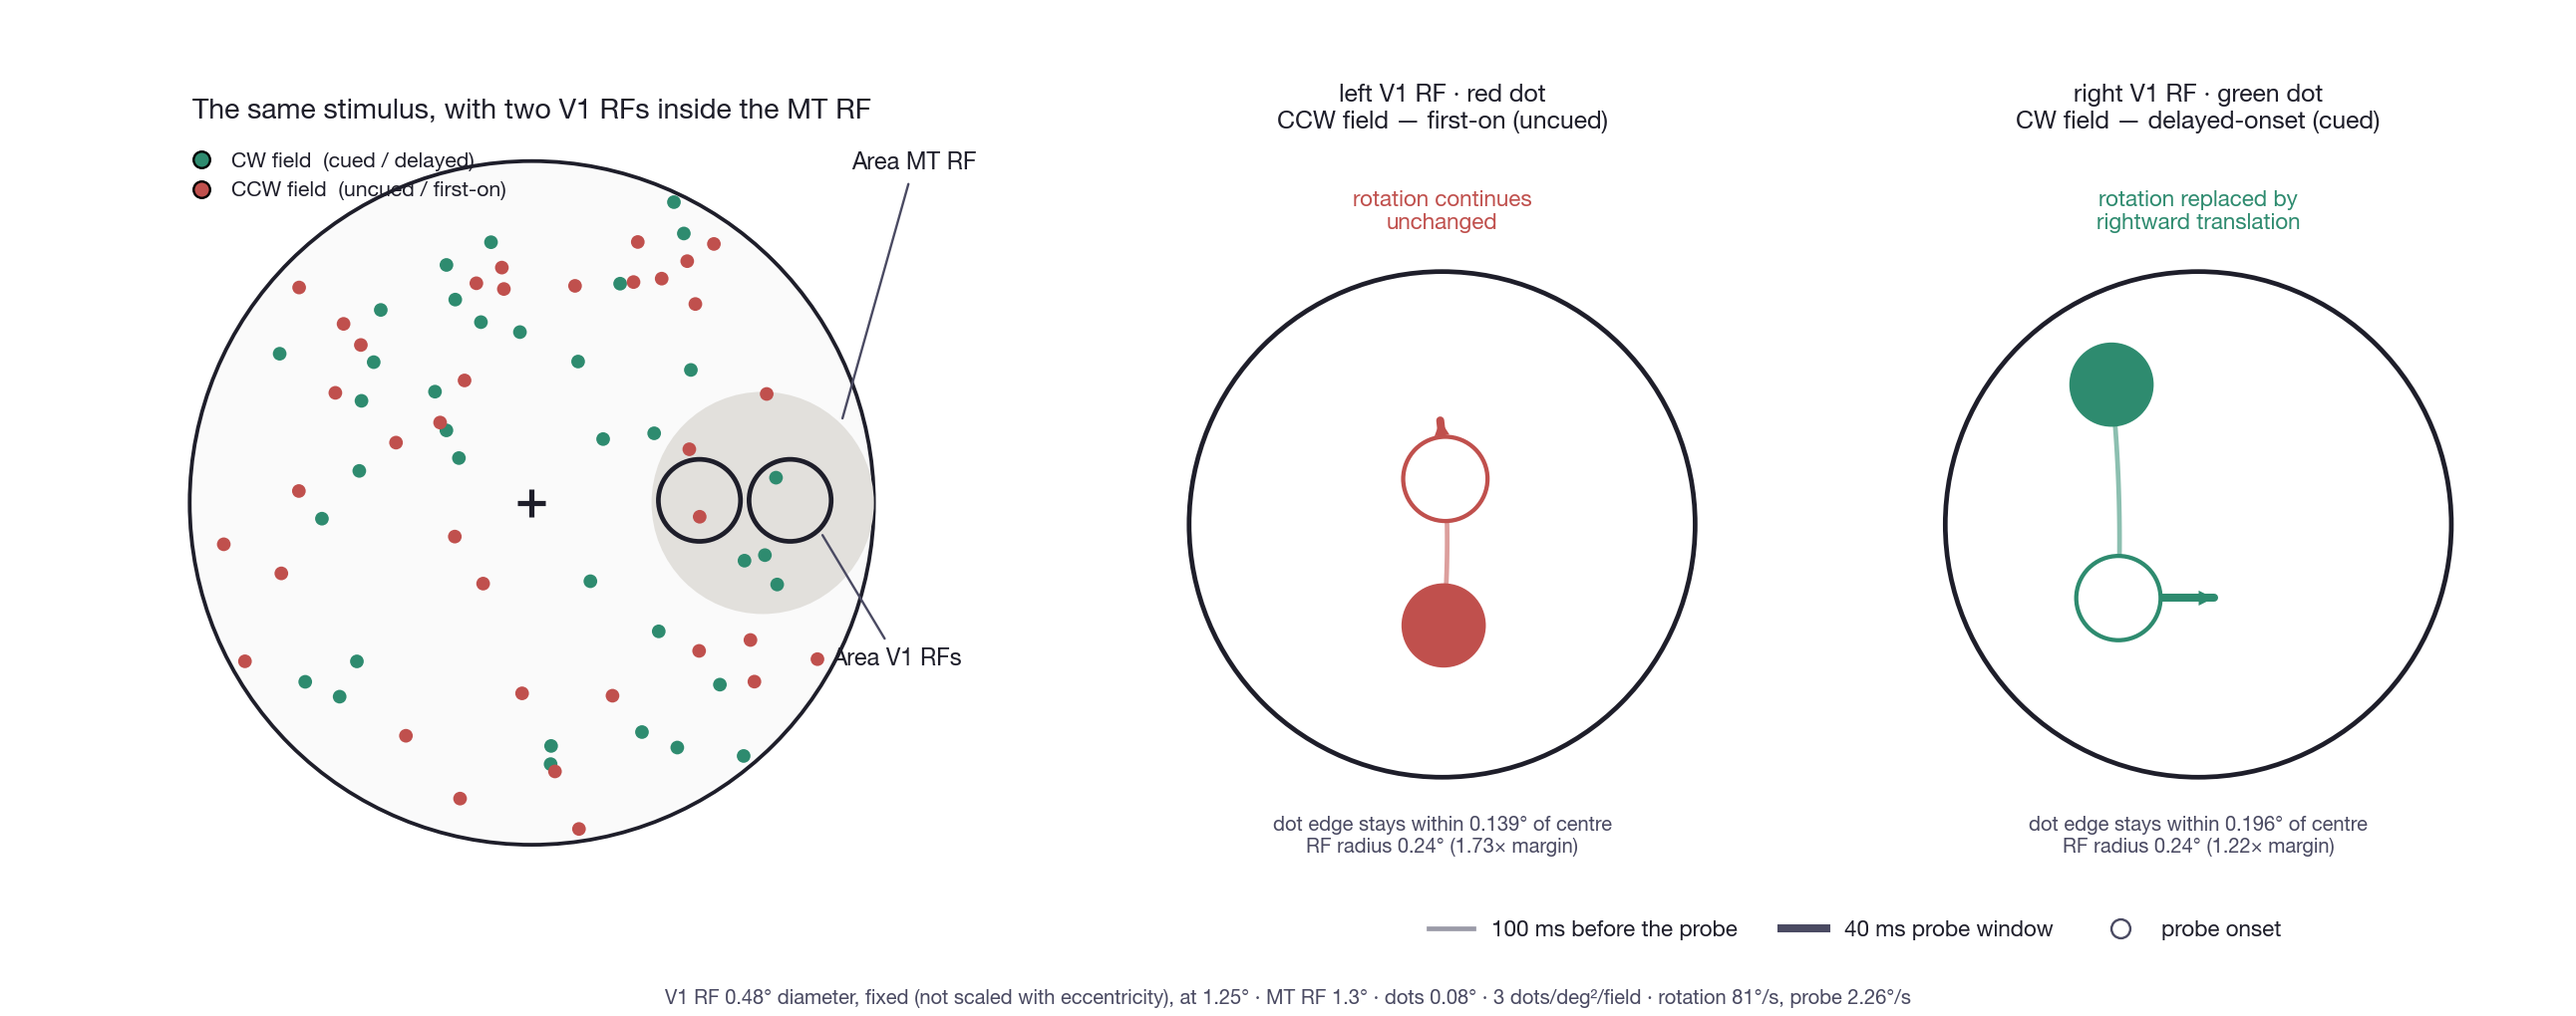
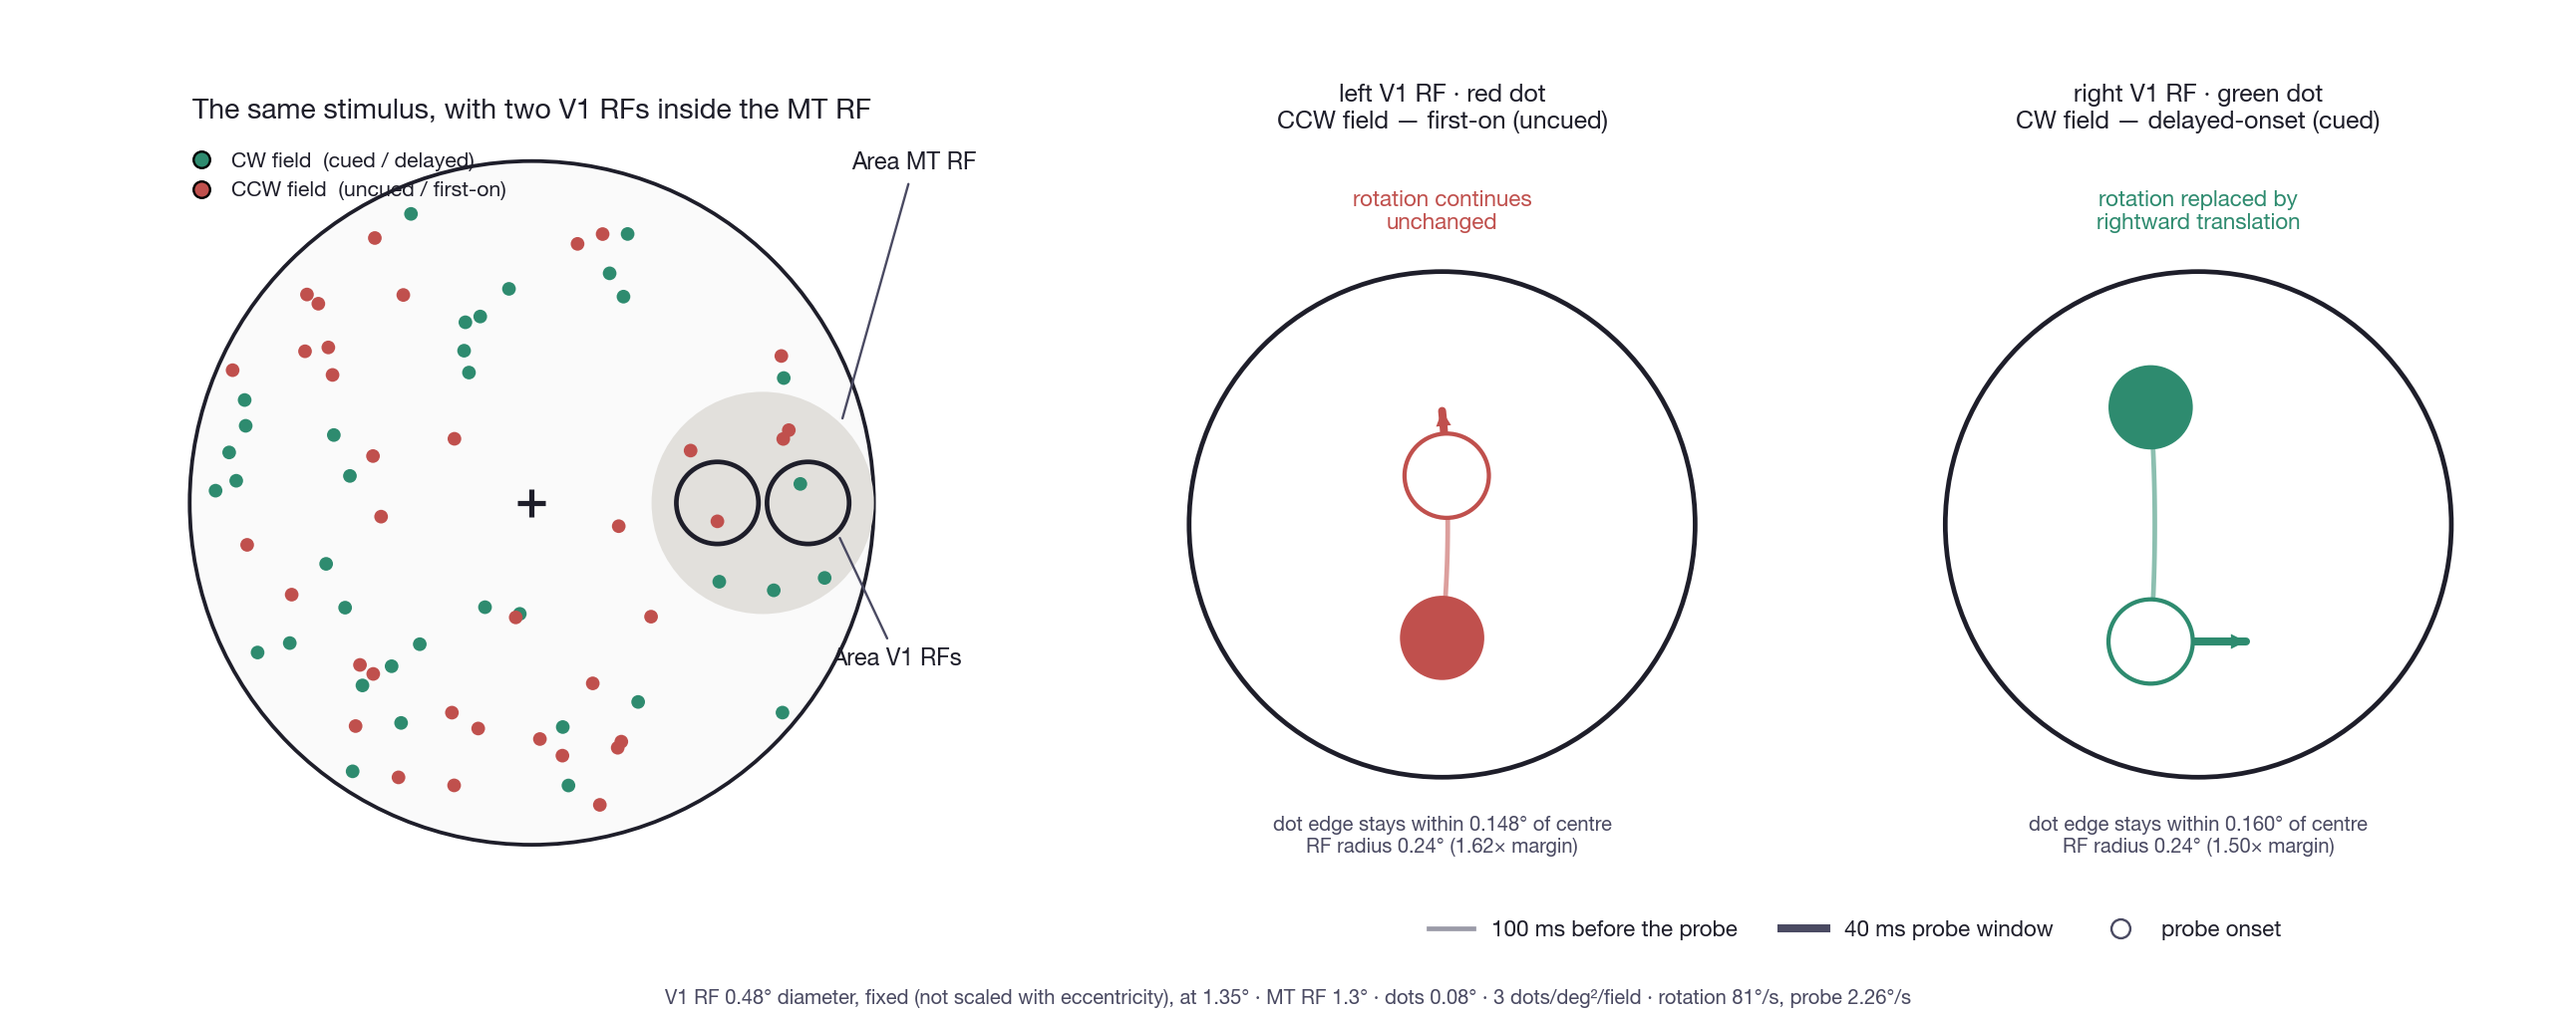
Construct the layout instead of searching for one
GS: "let's cheat a little" — place one dot in each V1 RF, positioned so its
trajectory lies inside, then equal numbers of red and green elsewhere in the MT
RF, then pepper the rest at the same density.

`build_layout` replaces `find_pure_pair` and its whole search apparatus. Per
field:

    1 selected   `_centred_start` solves for the start position whose WHOLE
                 trajectory — pre-probe rotation plus probe — sits centred in its
                 V1 RF. Iterated, because the arc is struck about fixation so
                 moving the start changes the path; nearly straight at this scale,
                 so it converges in a few passes.
    3 filler     inside the MT RF, clear of both V1 RFs, equal numbers of each
                 colour -> the MT blow-up comes out 4 green / 4 red
    32 pepper    the rest of the display

1 + 3 + 32 = 36 = DENSITY x annulus area, so the construction preserves density
EXACTLY rather than trading it for the arrangement. The V1 RFs are now placed
symmetrically about the MT RF centre, so they are inside it by construction.

Note the honesty is not weaker than the search version, only cheaper: every
non-selected dot is still verified to clear BOTH V1 RFs at all 21 sampled frames,
so each V1 RF holds one dot and only one for the whole window. And the selected
dots' paths are still drawn exactly where the dots are — `_centred_start` chooses
where the dot STARTS so its real path lands centred, rather than drawing the path
[…]

diff --git a/Agents/Modeling/sb2010/ps_stimulus_common.py b/Agents/Modeling/sb2010/ps_stimulus_common.py
@@ -18,22 +18,27 @@ blow-ups — the MT RF magnified in Figure 2, the two V1 RFs magnified in the V1
 figure. `dot_trajectory` / `draw_trajectory` live here but are called only by
 those panels.
 
-THE V1 PAIR IS FOUND, NOT PLACED
---------------------------------
-`find_pure_pair` moves both dot fields through the whole window and searches
-layout seed x pair-centre offset for two adjacent RF-sized regions where, on every
-sampled frame:
+THE LAYOUT IS CONSTRUCTED, NOT SEARCHED
+---------------------------------------
+`build_layout` places, per field:
 
-    left RF   exactly one dot of field A (red, uncued), the SAME dot throughout,
-              wholly inside; no dot of field B overlaps at all
-    right RF  the same for field B (green, cued)
+    1 selected dot   positioned by `_centred_start` so its WHOLE trajectory —
+                     pre-probe rotation plus probe — lies inside its V1 RF
+    3 filler dots    inside the MT RF but clear of both V1 RFs, equal numbers of
+                     each colour so the MT blow-up is about 50/50
+    32 pepper dots   over the rest of the display
 
-Identity persistence is the part that matters: "one dot per frame" alone would
-allow one dot leaving as another arrives. Offsets are drawn from a disc of radius
-`_PLAY` about `MT_C`, so both V1 RFs sitting inside the MT RF is guaranteed by the
-search space rather than arranged by eye. Nothing is deleted from the display.
+1 + 3 + 32 = 36 = DENSITY x annulus area, so the construction preserves density
+exactly rather than trading it for the arrangement. Every non-selected dot is
+verified to clear both V1 RFs at all sampled frames, so each V1 RF really does
+hold one dot and only one for the whole window.
 
-Run either figure script; this module does the search on import.
+Earlier versions searched thousands of random layouts for one that happened to
+qualify. That worked, but left dot counts in the MT RF, their colour balance and
+how well centred the paths were all hostage to whichever seed came up. Building
+it directly fixes all of them at once.
+
+Run either figure script; this module builds the layout on import.
 """
 
 import numpy as np
@@ -85,7 +90,7 @@ _SEP         = RF_DIAM_DEG + RF_GAP_DEG
 # row: it swallows the fovea, where local motion is nowhere near vertical, and
 # where the newer experiments — and S&B — exclude dots anyway. 0.65 keeps the
 # inner edge at 0.70 deg, clear of the 0.47 deg exclusion zone, and still leaves
-# room for the V1 pair to move (_PLAY below).
+# the two V1 RFs sitting inside it with clearance to spare.
 MT_R_DEG     = 0.65
 MT_ECC_DEG   = APERTURE_DEG - MT_R_DEG
 MT_C         = (MT_ECC_DEG, 0.0)
@@ -97,29 +102,8 @@ PRE_MS       = 100.0                # rotation shown before the probe; hcps_twop
 TRANS_MS     = 40.0                 # parameters.T_TRANS (3 frames @ 75 Hz)
 TRANSLATING_FIELD = "cued"          # "cued" (green) or "uncued" (red)
 
-# ── the search ──
-SEARCH_SEEDS  = range(1, 2500)
+# ── sampling of the window, used when checking dots against the V1 RFs ──
 SEARCH_FRAMES = 21
-SEARCH_STEP   = 0.04
-_PLAY         = MT_R_DEG - _SEP / 2 - RF_R_DEG   # both V1 RFs stay inside the MT RF
-GOOD_ENOUGH   = 1.40   # never reached in practice: search all seeds, take best
-MIN_ARC_DOTS  = 2.0                 # the pre-probe rotation arc must be at least
-                                    # this many dot-widths long, or the blow-up
-                                    # shows a dot with no visible path. Tangential
-                                    # speed goes as eccentricity, so this is a floor
-                                    # on how far out the pair may sit:
-                                    #   0.85 deg -> 1.5 dot-widths (too short)
-                                    #   1.20 deg -> 2.1            (legible)
-MT_BALANCE    = 1                   # max |n_green - n_red| inside the MT RF (GS:
-                                    # roughly equal numbers of each). Exact equality
-                                    # (0) is over-constrained once combined with the
-                                    # whole-dot purity test and the arc-length floor
-                                    # — no layout in 500 seeds satisfied all four at
-                                    # the larger RF. At 1 the chosen layout comes out
-                                    # 4 green / 3 red of 7.
-MT_MIN_DOTS   = 7                   # the SAME layout feeds Figure 2's MT-RF blow-up,
-                                    # so reject seeds that leave that panel thin.
-                                    # At this RF the expected count is ~8.
 
 
 # ═══════════════════════════════════════════════════════════ geometry ══
@@ -174,77 +158,105 @@ def _positions_at(p0, sense, translates, t_s):
     return p
 
 
-def find_pure_pair(seeds=SEARCH_SEEDS, whole_dot=True):
-    """Search for the two-point-set configuration. `whole_dot=True` requires the
-    wanted dot to lie WHOLLY inside its RF and rejects any overlap by the other
-    surface — stricter than testing centres, and the right test now that dots are
-    drawn at a visible size."""
-    r_in = RF_R_DEG - DOT_DIAM_DEG / 2 if whole_dot else RF_R_DEG
-    r_out = RF_R_DEG + DOT_DIAM_DEG / 2 if whole_dot else RF_R_DEG
-    ts = np.linspace(0.0, (PRE_MS + TRANS_MS) / 1000.0, SEARCH_FRAMES)
-    offs = [(dx, dy)
-            for dx in np.arange(-_PLAY, _PLAY + 1e-9, SEARCH_STEP)
-            for dy in np.arange(-_PLAY, _PLAY + 1e-9, SEARCH_STEP)
-            if dx * dx + dy * dy <= _PLAY * _PLAY]
-    trA = (TRANSLATING_FIELD == "uncued")
-    trB = (TRANSLATING_FIELD == "cued")
-    best = None
-    for seed in seeds:
-        rng = np.random.default_rng(seed)
-        A = _field(N_DOTS, rng)                     # red, CCW, uncued
-        B = _field(N_DOTS, rng)                     # green, CW, cued
-        # Cheap rejects first — this layout also has to serve Figure 2's blow-up:
-        #   enough dots in the MT RF to populate that panel, AND
-        #   roughly equal numbers of the two surfaces in it, so the blow-up does
-        #   not read as one field dominating when neither does (GS).
-        nA = int((np.hypot(*(A - np.array(MT_C)).T) < MT_R_DEG).sum())
-        nB = int((np.hypot(*(B - np.array(MT_C)).T) < MT_R_DEG).sum())
-        if nA + nB < MT_MIN_DOTS or abs(nA - nB) > MT_BALANCE:
-            continue
-        PA = [_positions_at(A, "CCW", trA, t) for t in ts]
-        PB = [_positions_at(B, "CW", trB, t) for t in ts]
-        for dx, dy in offs:
-            cx, cy = MT_C[0] + dx, MT_C[1] + dy
-            # far enough out that 100 ms of rotation is a visible arc, not a smudge
-            if np.radians(OMEGA_DEG_S) * np.hypot(cx, cy) * PRE_MS / 1000.0 \
-                    < MIN_ARC_DOTS * DOT_DIAM_DEG:
-                continue
-            Lc = np.array([cx - _SEP / 2, cy]); Rc = np.array([cx + _SEP / 2, cy])
-            inAL = [set(np.where(np.hypot(*(pa - Lc).T) < r_in)[0]) for pa in PA]
-            if any(len(s_) != 1 for s_ in inAL): continue
-            inBR = [set(np.where(np.hypot(*(pb - Rc).T) < r_in)[0]) for pb in PB]
-            if any(len(s_) != 1 for s_ in inBR): continue
-            iA = set.intersection(*inAL); iB = set.intersection(*inBR)
-            if not iA or not iB: continue
-            if any((np.hypot(*(pb - Lc).T) < r_out).any() for pb in PB): continue
-            if any((np.hypot(*(pa - Rc).T) < r_out).any() for pa in PA): continue
-            jA, jB = iA.pop(), iB.pop()
-            worst = max(max(np.hypot(*(pa[jA] - Lc)) for pa in PA),
-                        max(np.hypot(*(pb[jB] - Rc)) for pb in PB)) + DOT_DIAM_DEG / 2
-            margin = RF_R_DEG / worst
-            if best is None or margin > best["margin"]:
-                best = dict(seed=seed, A=A, B=B, Lc=Lc, Rc=Rc, iA=jA, iB=jB,
-                            margin=margin, off=(float(dx), float(dy)),
-                            whole_dot=whole_dot)
-        if best is not None and best["margin"] >= GOOD_ENOUGH:
+# ═══════════════════════════════════════════════════ BUILD THE LAYOUT ══
+# The layout is CONSTRUCTED, not searched (GS: "let's cheat a little"). Earlier
+# versions hunted thousands of random layouts for one that happened to put a
+# single persistent dot in each V1 RF; that worked but made every other property
+# — dot counts in the MT RF, their red/green balance, how well centred the paths
+# were — a hostage to whichever seed happened to qualify. Building it directly
+# fixes all of them at once, and the construction preserves DENSITY exactly:
+#
+#     per field:  1 selected  +  3 filler (in the MT RF)  +  32 pepper  =  36
+#                 = DENSITY x (annulus area), the same as a random field
+#
+# The two V1 RFs are placed symmetrically about the MT RF centre rather than
+# found, so they are inside it by construction.
+RF_LEFT  = (MT_C[0] - _SEP / 2, MT_C[1])
+RF_RIGHT = (MT_C[0] + _SEP / 2, MT_C[1])
+ECC_DEG  = float(np.hypot(*MT_C))
+
+_TS = np.linspace(0.0, (PRE_MS + TRANS_MS) / 1000.0, SEARCH_FRAMES)
+
+
+def _centred_start(rf_c, sense, translates, iters=8):
+    """The start position whose WHOLE trajectory sits centred in `rf_c`.
+
+    We choose where the dot starts so its real path lands centred — as opposed to
+    drawing the path elsewhere and sliding it over, which earlier versions did and
+    which misrepresents where the dot actually is. Iterates because the arc is
+    struck about fixation, so moving the start changes the path slightly; it is
+    nearly straight at this scale, so a few passes converge.
+    """
+    p = np.asarray(rf_c, float).copy()
+    for _ in range(iters):
+        pre, during = dot_trajectory(p, sense, translates)
+        full = np.vstack([pre, during])
+        centre = (full[0] + full[-1]) / 2.0      # min enclosing circle (Thales)
+        p = p + (np.asarray(rf_c, float) - centre)
+    return p
+
+
+def _clears_v1(p0, sense, translates):
+    """True if this dot never overlaps either V1 RF, at any sampled frame. Applied
+    to every non-selected dot, so each V1 RF really does hold one dot and only
+    one throughout — the property the whole figure depends on."""
+    keep = RF_R_DEG + DOT_DIAM_DEG / 2
+    pts = np.asarray(p0, float)[None, :]
+    for t in _TS:
+        q = _positions_at(pts, sense, translates, t)[0]
+        if (np.hypot(q[0] - RF_LEFT[0], q[1] - RF_LEFT[1]) < keep or
+                np.hypot(q[0] - RF_RIGHT[0], q[1] - RF_RIGHT[1]) < keep):
+            return False
+    return True
+
+
+def _sample(n, rng, accept, sense, translates, tries=200000):
+    """Rejection-sample `n` start positions in the annulus satisfying `accept`,
+    each of which also clears both V1 RFs for the whole window."""
+    out = []
+    for _ in range(tries):
+        if len(out) == n:
             break
-    return best
+        r = np.sqrt(rng.uniform(EXCL_DEG**2, (APERTURE_DEG - 0.04)**2))
+        a = rng.uniform(0, 2 * np.pi)
+        p = np.array([r * np.cos(a), r * np.sin(a)])
+        if accept(p) and _clears_v1(p, sense, translates):
+            out.append(p)
+    if len(out) != n:
+        raise RuntimeError(f"could only place {len(out)} of {n} dots")
+    return out
 
 
-# ── one search, at import; both figures read its result ──
-PAIR = find_pure_pair(whole_dot=True)
-_STRICT = PAIR is not None
-if PAIR is None:                        # documented fallback, per the plan
-    PAIR = find_pure_pair(whole_dot=False)
-if PAIR is None:
-    raise RuntimeError("no layout gave a persistent one-dot-each pair; "
-                       "lower DENSITY or widen SEARCH_SEEDS")
+def build_layout(seed=7):
+    """One dot in each V1 RF, an equal number of each colour elsewhere inside the
+    MT RF, then the rest peppered over the stimulus at the same density."""
+    rng = np.random.default_rng(seed)
+    trA = (TRANSLATING_FIELD == "uncued")       # red  = field A = CCW = uncued
+    trB = (TRANSLATING_FIELD == "cued")         # green = field B = CW = cued
 
-FIELD_A, FIELD_B = PAIR["A"], PAIR["B"]
-RF_LEFT, RF_RIGHT = tuple(PAIR["Lc"]), tuple(PAIR["Rc"])
-IDX_A, IDX_B = PAIR["iA"], PAIR["iB"]
-ECC_DEG = float(np.hypot((RF_LEFT[0] + RF_RIGHT[0]) / 2,
-                         (RF_LEFT[1] + RF_RIGHT[1]) / 2))
+    # 1. the two selected dots, positioned so their paths lie inside their RFs
+    a0 = _centred_start(RF_LEFT, "CCW", trA)
+    b0 = _centred_start(RF_RIGHT, "CW", trB)
+
+    # 2. equal numbers of each colour inside the MT RF but outside the V1 RFs
+    mt_area = np.pi * MT_R_DEG**2 - 2 * np.pi * RF_R_DEG**2
+    n_fill = int(round(DENSITY * mt_area))
+    in_mt = lambda p: np.hypot(p[0] - MT_C[0], p[1] - MT_C[1]) < MT_R_DEG - DOT_DIAM_DEG / 2
+    fill_a = _sample(n_fill, rng, in_mt, "CCW", trA)
+    fill_b = _sample(n_fill, rng, in_mt, "CW", trB)
+
+    # 3. the rest of the display, same density
+    n_pep = N_DOTS - 1 - n_fill
+    out_mt = lambda p: np.hypot(p[0] - MT_C[0], p[1] - MT_C[1]) > MT_R_DEG + DOT_DIAM_DEG / 2
+    pep_a = _sample(n_pep, rng, out_mt, "CCW", trA)
+    pep_b = _sample(n_pep, rng, out_mt, "CW", trB)
+
+    A = np.vstack([a0[None, :]] + [np.asarray(fill_a), np.asarray(pep_a)])
+    B = np.vstack([b0[None, :]] + [np.asarray(fill_b), np.asarray(pep_b)])
+    return A, B, 0, 0, n_fill, n_pep
+
+
+FIELD_A, FIELD_B, IDX_A, IDX_B, N_FILL, N_PEPPER = build_layout()
 
 
 def selected(which):
@@ -334,23 +346,34 @@ def excursion(path, rf_c):
 
 
 def report():
-    lam = DENSITY * np.pi * RF_R_DEG**2
+    from collections import Counter
+    ins = dots_in(MT_C, MT_R_DEG)
+    c = Counter(col for _, col, _, _ in ins)
+    arc = np.radians(OMEGA_DEG_S) * ECC_DEG * PRE_MS / 1000.0
     print(f"density        {DENSITY} dots/deg^2/field ({N_DOTS} per field)"
           f"   [experiment 5.0]")
     print(f"dot            {DOT_DIAM_DEG} deg  [VRDots; S&B is 0.03]")
     print(f"V1 RF          {RF_DIAM_DEG:.2f} deg diameter, fixed")
-    print(f"MT RF          centre {MT_C}, radius {MT_R_DEG}")
-    print(f"PAIR           seed {PAIR['seed']}, centre {ECC_DEG:.3f} deg from "
-          f"fixation, offset {PAIR['off']} of an allowed {_PLAY:.2f}")
-    crit = ("whole dot inside, no overlap by the other surface" if _STRICT
-            else "CENTRES only — the strict whole-dot test found nothing")
-    print(f"               criterion: {crit}")
+    print(f"MT RF          r {MT_R_DEG} at ecc {MT_ECC_DEG:.2f}; outer edge "
+          f"{MT_ECC_DEG + MT_R_DEG:.2f} = aperture {APERTURE_DEG}, inner edge "
+          f"{MT_ECC_DEG - MT_R_DEG:.2f}")
+    print(f"               max departure of local motion from vertical: "
+          f"{np.degrees(np.arcsin(MT_R_DEG / MT_ECC_DEG)):.0f} deg")
+    print(f"\nLAYOUT CONSTRUCTED, not searched:")
+    print(f"  per field    1 selected + {N_FILL} filler (in the MT RF) + "
+          f"{N_PEPPER} pepper = {1 + N_FILL + N_PEPPER}  (density target {N_DOTS})")
+    print(f"  in the MT RF {len(ins)} dots -> green {c[GREEN]}, red {c[RED]}")
+    print(f"  V1 RFs       placed symmetrically about the MT RF centre, so inside "
+          f"it by construction")
+    print(f"  every other dot is verified to clear BOTH V1 RFs at all "
+          f"{SEARCH_FRAMES} sampled frames")
+    print(f"\nCONTAINMENT of the two selected dots (edge, not centre):")
     for which in ("left", "right"):
         p0, _, sense, tr, rf_c = selected(which)
         pre, during = dot_trajectory(p0, sense, tr)
         exc = excursion(np.vstack([pre, during]), rf_c)
-        print(f"  {which:5s} dot edge reaches {exc:.4f} of RF radius "
+        e = np.hypot(*rf_c)
+        print(f"  {which:5s} ecc {e:.3f}  edge reaches {exc:.4f} of RF radius "
               f"{RF_R_DEG:.4f}  -> margin {RF_R_DEG/exc:.2f}x")
         assert exc < RF_R_DEG, f"{which} dot leaves its RF"
-    print(f"context        {lam:.2f} dots/field per RF -> other surface intrudes "
-          f"{1-np.exp(-lam):.0%} of the time; this pair is rare")
+    print(f"  pre-probe arc {arc/DOT_DIAM_DEG:.1f} dot-widths at the pair centre")
